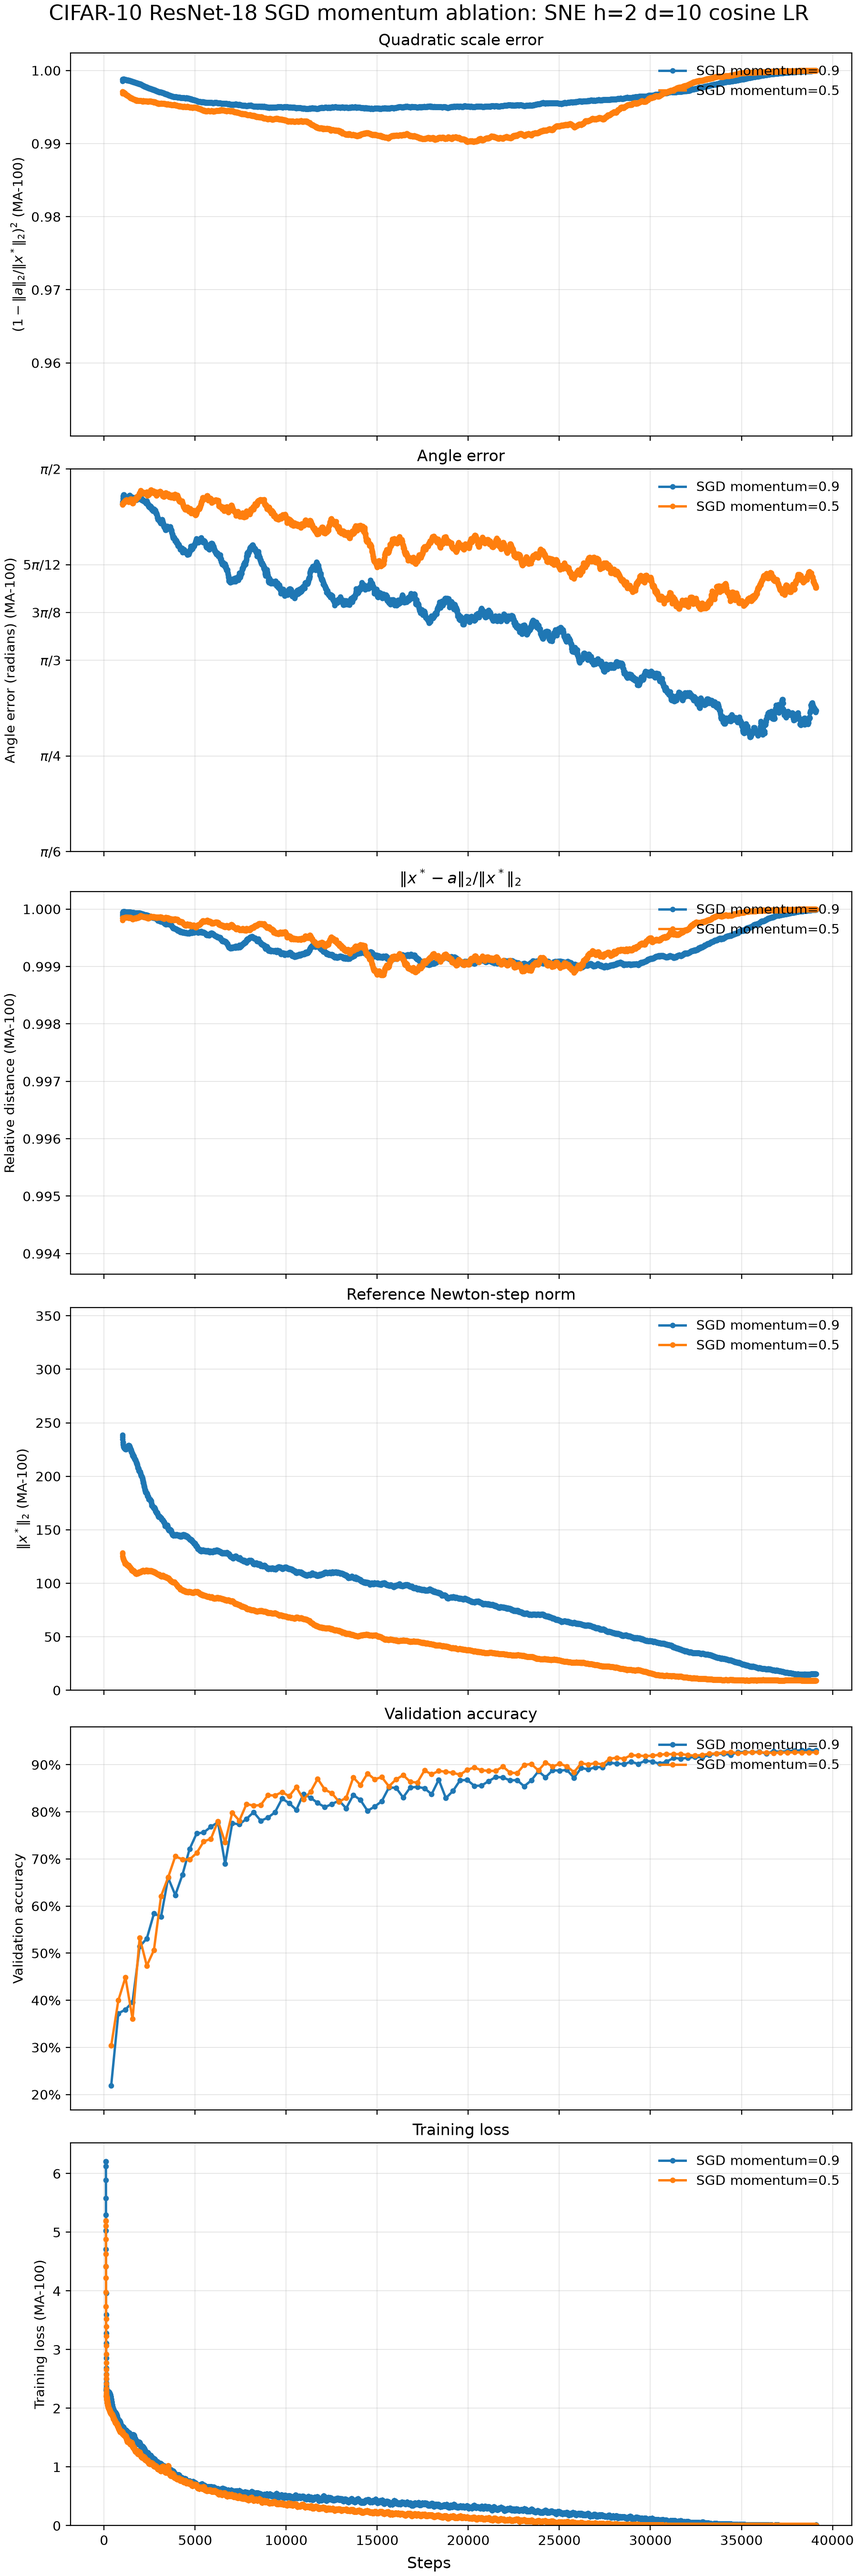
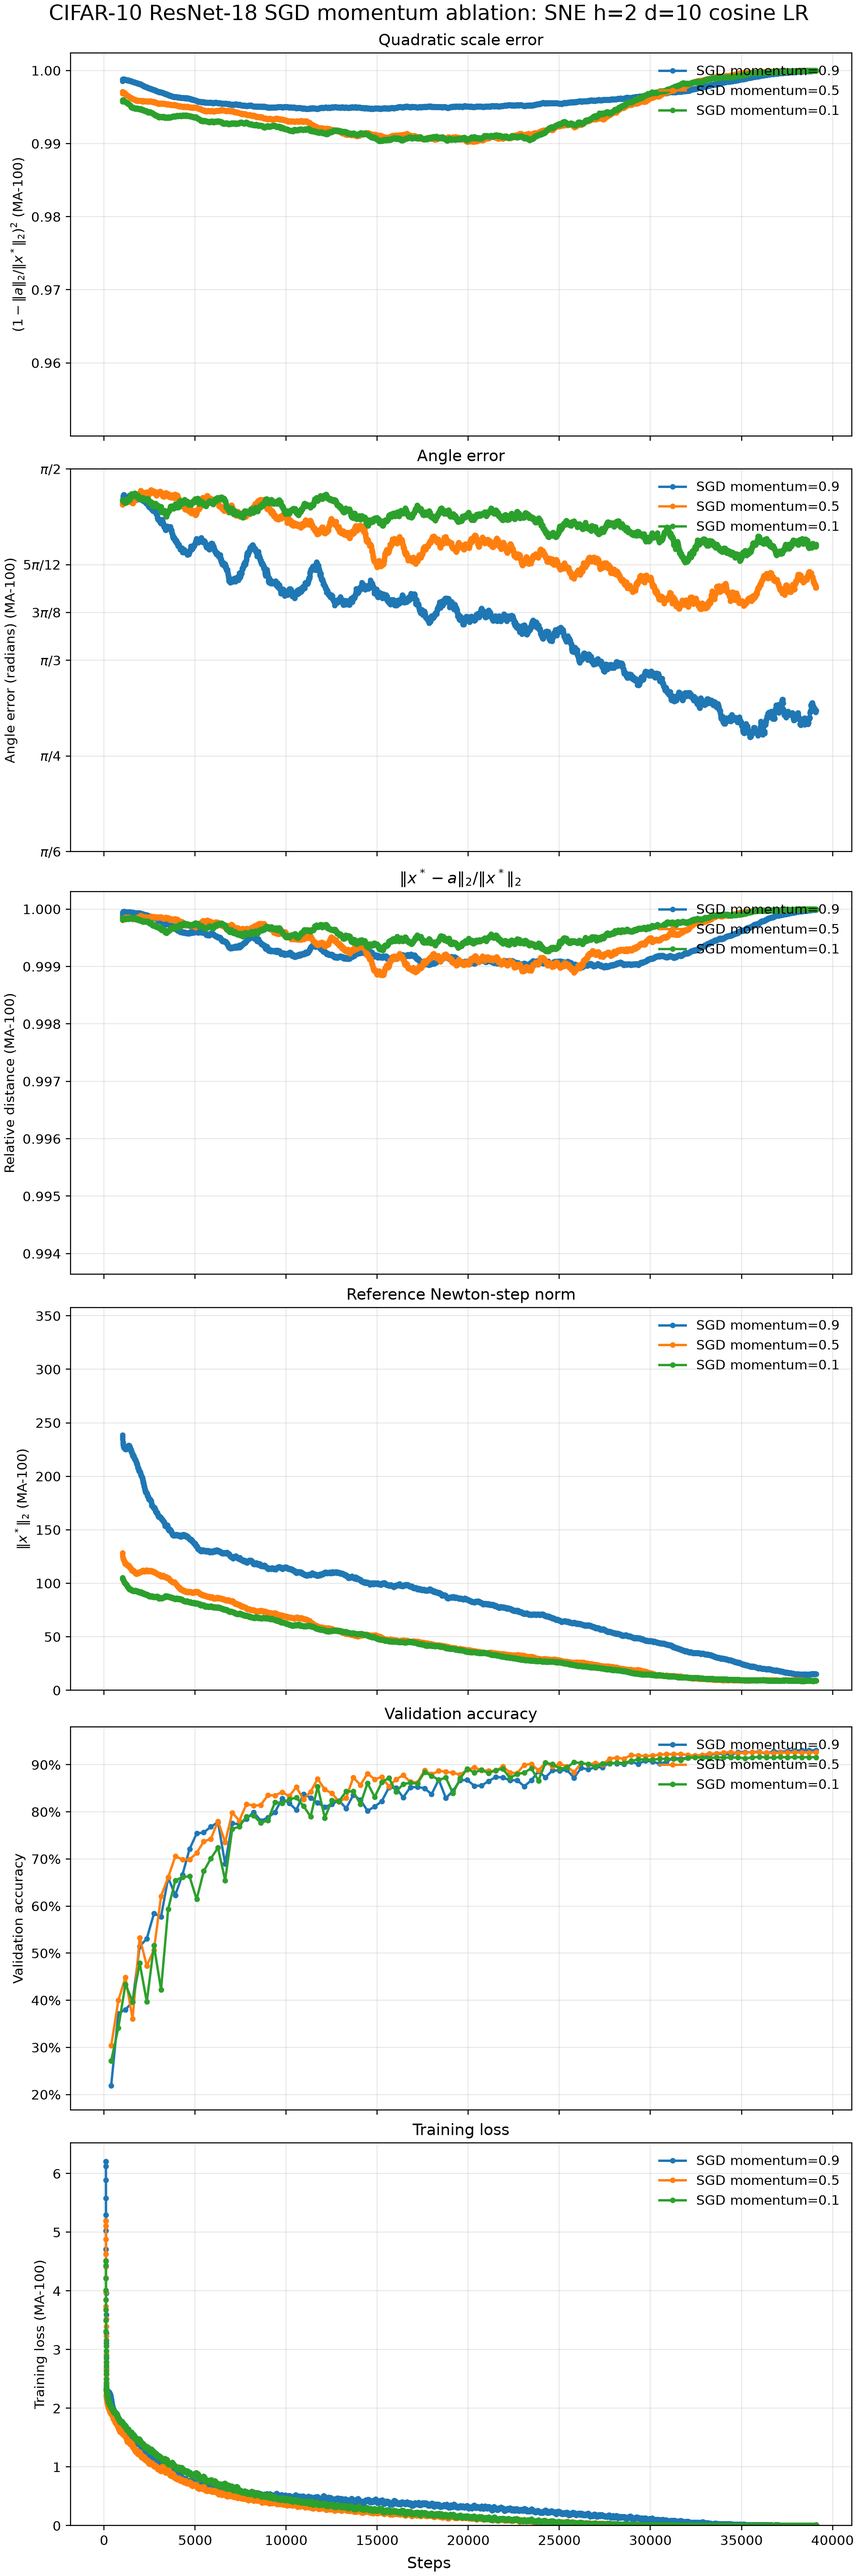
Add completed cosine-SGD dashboard curve

diff --git a/index.html b/index.html
@@ -218,10 +218,7 @@
             sweep changes \(\beta_1\) while \(\beta_2=0.999\); for SGD it changes the
             conventional momentum coefficient. SNE again uses \(h=2\), \(d=10\), and
             \(m=20\), with MA-100 applied only to geometry and training loss and raw
-            validation accuracy retained at one observation per epoch. The
-            cosine-SGD panel reports the two completed coefficients, \(0.9\) and
-            \(0.5\); its unfinished \(0.1\) trajectory is excluded from both the
-            displayed curves and the shared-axis calculation.
+            validation accuracy retained at one observation per epoch.
           </p>
         </header>
 
@@ -265,7 +262,7 @@
             </article>
 
             <article class="job-column">
-              <header class="job-header"><div><p>SGD · ResNet-18</p><h3>Cosine-decay learning rate</h3><span>momentum 0.9 · 0.5</span></div><button class="expand-button" type="button" data-image="assets/plots/momentum-ablations/sgd-cosine-lr.png" data-title="SGD momentum ablation · cosine LR" title="Open full-resolution plot" aria-label="Open SGD cosine-LR plot">↗</button></header>
+              <header class="job-header"><div><p>SGD · ResNet-18</p><h3>Cosine-decay learning rate</h3><span>momentum 0.9 · 0.5 · 0.1</span></div><button class="expand-button" type="button" data-image="assets/plots/momentum-ablations/sgd-cosine-lr.png" data-title="SGD momentum ablation · cosine LR" title="Open full-resolution plot" aria-label="Open SGD cosine-LR plot">↗</button></header>
               <img class="plot-image" src="assets/plots/momentum-ablations/sgd-cosine-lr.png" alt="Six-row SGD momentum ablation with cosine-decay learning rate" loading="lazy">
             </article>
           </div>
@@ -281,11 +278,15 @@
             trade-off visible without allowing any column to magnify a narrow local
             range. Cosine decay again pushes the norm-sensitive metrics toward their
             zero-update limits, but the directional separation between coefficients
-            remains visible for much of training. The next analysis should determine
-            whether these trends are explained by effective averaging horizon alone
-            or by optimizer-specific state dynamics, and should test coefficients on
-            a finer grid with uncertainty across seeds before drawing a prescriptive
-            conclusion about the best momentum value.
+            remains visible for much of training. The completed cosine-SGD sweep
+            strengthens this observation: momentum \(0.1\) ends with the largest
+            angle error and the lowest validation accuracy, whereas momentum \(0.9\)
+            gives the strongest directional agreement and validation result. The
+            next analysis should determine whether these trends are explained by
+            effective averaging horizon alone or by optimizer-specific state
+            dynamics, and should test coefficients on a finer grid with uncertainty
+            across seeds before drawing a prescriptive conclusion about the best
+            momentum value.
           </p>
         </div>
       </section>

diff --git a/scripts/build_dashboard_plots.py b/scripts/build_dashboard_plots.py
@@ -218,10 +218,6 @@ SECTIONS = (
                     "20260804-014200"
                 ),
                 result_dir="cifar10-resnet18-sgd-momentum-sne-h2-d10-cosine-lr",
-                values=("0.9", "0.5"),
-                excluded_csv_names=(
-                    "resnet18_sgd-momentum-0-1_cifar10-gn4.csv",
-                ),
             ),
         ),
     ),
